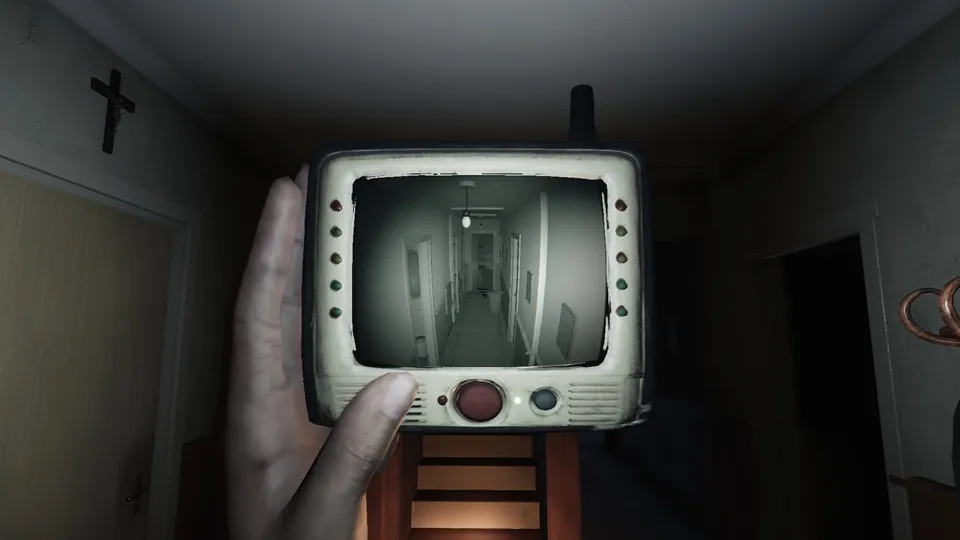
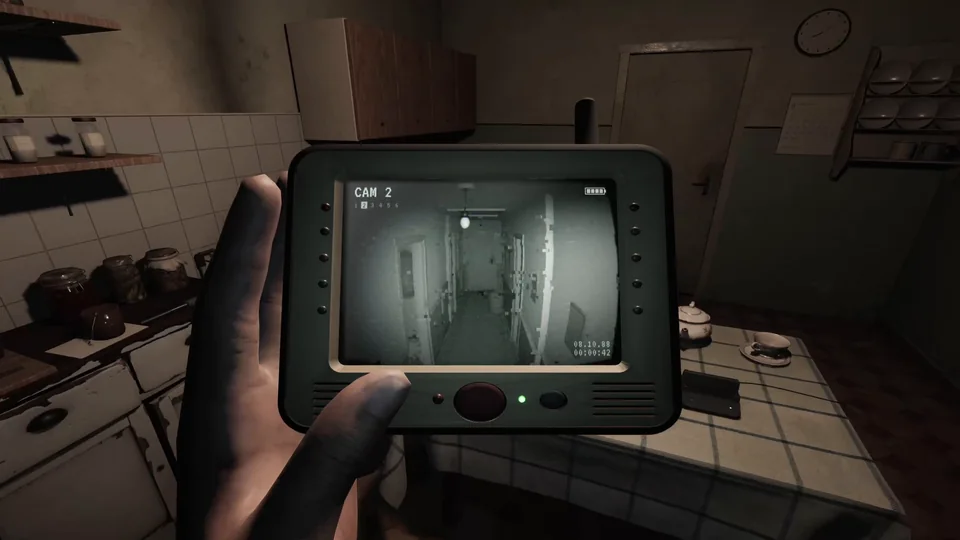
hushabye: film Major Update 7.2.65 (pełna pętla) i nowe zdjęcia z gry
Główny film na stronie to teraz pełna pętla z wersji 7.2.65, starsze zwiastuny zostały jako linki.
Nowe kadry: menu ze Steamem, CAM 1, niania w kuchni, dziecko z latarką, kryjówka.
Poprawione nieaktualne opisy (ekran ładowania, nisze w ścianie).

diff --git a/src/pages/hushabye.html b/src/pages/hushabye.html
@@ -1,7 +1,7 @@
 <article class="ft hu">
 
   <header class="ft-hero">
-    <div class="ft-hero__stage" data-ft-stage data-ft-label="HUSHABYE gameplay trailer, version 7.2.57, with sound">
+    <div class="ft-hero__stage" data-ft-stage data-ft-label="HUSHABYE full game loop, version 7.2.65, with sound">
       <video id="hu-loop-hero" data-poster-loop data-src="assets/hushabye/hushabye-loop-door.mp4" poster="assets/hushabye/hushabye-loop-door.webp" width="1280" height="720" muted loop playsinline preload="none" aria-hidden="true" tabindex="-1"></video>
       <button class="ft-toggle" type="button" data-loop-toggle aria-controls="hu-loop-hero" hidden>Pause</button>
     </div>
@@ -9,31 +9,31 @@
       <h1>HUSHABYE</h1>
       <p class="ft-hero__who">A first-person horror game I am developing in Unity&nbsp;6, played with a microphone: you hush a crying baby with your own voice and lure a blind creature away with recordings of it.</p>
       <p class="ft-hero__acts">
-        <a class="ft-watch" href="https://www.youtube.com/watch?v=4-BAJRZ6SPs" data-ft-play data-ft-yt="4-BAJRZ6SPs" data-t="0">Watch the gameplay trailer</a>
+        <a class="ft-watch" href="https://www.youtube.com/watch?v=R51jy5Clm-k" data-ft-play data-ft-yt="R51jy5Clm-k" data-t="0">Watch the full game loop</a>
       </p>
     </div>
   </header>
 
   <section class="ft-sec ft-band" aria-labelledby="hu-trailers-title">
     <p class="ft-deck">A babysitter&rsquo;s night in a house in late-1980s Europe. The bundle asleep in the crib looks like the baby on CAM&nbsp;1, but the real baby is crying somewhere else in the house. Over five nights, find it, carry it back and swap it into the crib before the crying fades.</p>
-    <p class="ft-facts">Single-player psychological horror, in production. 2026, PC. Unity&nbsp;6 HDRP and C#, sound in Wwise. Both trailers are from version 7.2.57 (October 2026).</p>
+    <p class="ft-facts">Single-player psychological horror, in production. 2026, PC. Unity&nbsp;6 HDRP and C#, sound in Wwise. Latest video from version 7.2.65 (October 2026).</p>
 
-    <h2 class="ft-head" id="hu-trailers-title">Two trailers from version 7.2.57</h2>
+    <h2 class="ft-head" id="hu-trailers-title">Major update: the full game loop, version 7.2.65</h2>
     <div class="ft-row ft-row--left">
       <figure class="ft-media hu-film">
-        <div class="yt-facade" data-yt-facade data-video-id="NFCO0AcAZBI">
-          <button class="yt-facade__launch" type="button" data-yt-launch data-video-title="HUSHABYE preview trailer, alpha 7.2.57" aria-label="Play the 7.2.57 preview trailer with sound, 1 minute 16 seconds">
-            <img src="assets/hushabye/hushabye-preview-1280.webp" srcset="assets/hushabye/hushabye-preview-640.webp 640w, assets/hushabye/hushabye-preview-1280.webp 1280w" sizes="(min-width: 1100px) 56vw, (min-width: 700px) 92vw, 100vw" width="1280" height="720" loading="lazy" decoding="async" alt="" aria-hidden="true">
-            <span class="ft-watch" aria-hidden="true">Play the preview trailer</span>
+        <div class="yt-facade" data-yt-facade data-video-id="R51jy5Clm-k">
+          <button class="yt-facade__launch" type="button" data-yt-launch data-video-title="HUSHABYE major update, full game loop, 7.2.65" aria-label="Play the 7.2.65 full game loop video with sound, 4 minutes 34 seconds">
+            <img src="assets/hushabye/hushabye-fullloop-1280.webp" srcset="assets/hushabye/hushabye-fullloop-640.webp 640w, assets/hushabye/hushabye-fullloop-1280.webp 1280w" sizes="(min-width: 1100px) 56vw, (min-width: 700px) 92vw, 100vw" width="1280" height="720" loading="lazy" decoding="async" alt="" aria-hidden="true">
+            <span class="ft-watch" aria-hidden="true">Play the full game loop</span>
           </button>
-          <noscript><iframe src="https://www.youtube-nocookie.com/embed/NFCO0AcAZBI" title="HUSHABYE preview trailer, alpha 7.2.57" allow="encrypted-media; picture-in-picture" referrerpolicy="strict-origin-when-cross-origin" allowfullscreen></iframe></noscript>
+          <noscript><iframe src="https://www.youtube-nocookie.com/embed/R51jy5Clm-k" title="HUSHABYE major update, full game loop, 7.2.65" allow="encrypted-media; picture-in-picture" referrerpolicy="strict-origin-when-cross-origin" allowfullscreen></iframe></noscript>
         </div>
-        <figcaption class="ft-cap">CAM&nbsp;1 breaks up as something climbs out of the nursery wall.</figcaption>
+        <figcaption class="ft-cap">Hiding in the bathroom with the real baby.</figcaption>
       </figure>
       <div class="ft-body">
-        <p>The gameplay trailer in the header runs 4:15; the preview trailer here is a 1:16 cut.</p>
+        <p>One uncut run, 4:34, from the main menu and the opening tape to finding the real baby and hiding with it: a new menu and settings, a redrawn monitor, hiding places the creature looks into, and Steam playtest builds.</p>
         <p>The baby&rsquo;s crying draws the creature. The player calms the baby, hides it, and sends the creature elsewhere with their own voice played from a camera in another room.</p>
-        <p class="ft-links"><a href="https://www.youtube.com/watch?v=4-BAJRZ6SPs" target="_blank" rel="noopener noreferrer">Gameplay trailer on YouTube <span aria-hidden="true">&nearr;</span></a> <a href="https://www.youtube.com/watch?v=NFCO0AcAZBI" target="_blank" rel="noopener noreferrer">Preview trailer on YouTube <span aria-hidden="true">&nearr;</span></a></p>
+        <p class="ft-links"><a href="https://www.youtube.com/watch?v=R51jy5Clm-k" target="_blank" rel="noopener noreferrer">Full game loop on YouTube <span aria-hidden="true">&nearr;</span></a> <a href="https://www.youtube.com/watch?v=4-BAJRZ6SPs" target="_blank" rel="noopener noreferrer">Gameplay trailer 7.2.57 <span aria-hidden="true">&nearr;</span></a></p>
       </div>
     </div>
   </section>
@@ -42,7 +42,7 @@
     <h2 class="ft-head" id="hu-voice-title">Hushing the baby, luring with your voice</h2>
     <div class="ft-row ft-row--left">
       <figure class="ft-media">
-        <img src="assets/hushabye/hushabye-monitor-1920.webp" srcset="assets/hushabye/hushabye-monitor-960.webp 960w, assets/hushabye/hushabye-monitor-1920.webp 1920w" sizes="(min-width: 1100px) 56vw, (min-width: 700px) 92vw, 100vw" width="1920" height="1080" alt="A hand holds a cream plastic baby monitor in a dark hallway at the foot of the stairs; its screen shows a grainy night-vision view of an upstairs corridor" loading="lazy" decoding="async">
+        <img src="assets/hushabye/hushabye-monitor-1920.webp" srcset="assets/hushabye/hushabye-monitor-960.webp 960w, assets/hushabye/hushabye-monitor-1920.webp 1920w" sizes="(min-width: 1100px) 56vw, (min-width: 700px) 92vw, 100vw" width="1920" height="1080" alt="In a dim 1980s kitchen a hand holds a cream plastic baby monitor; its screen shows CAM&nbsp;2, a grainy night-vision view of a corridor" loading="lazy" decoding="async">
         <figcaption class="ft-cap">The baby monitor shows six cameras around the house.</figcaption>
       </figure>
       <div class="ft-body">
@@ -54,7 +54,7 @@
 
     <div class="hu-pair">
       <figure class="ft-media">
-        <img src="assets/hushabye/hushabye-baby-1280.webp" srcset="assets/hushabye/hushabye-baby-640.webp 640w, assets/hushabye/hushabye-baby-1280.webp 1280w" sizes="(min-width: 700px) 46vw, 100vw" width="1280" height="720" alt="Looking down at a swaddled baby in a knitted cap held in the left arm, while the right hand points a flashlight at a door at the end of a dark hall" loading="lazy" decoding="async">
+        <img src="assets/hushabye/hushabye-baby-1280.webp" srcset="assets/hushabye/hushabye-baby-640.webp 640w, assets/hushabye/hushabye-baby-1280.webp 1280w" sizes="(min-width: 700px) 46vw, 100vw" width="1280" height="720" alt="A swaddled baby in a knitted cap held low in one arm while the other hand points a flashlight down a dark corridor at a double door" loading="lazy" decoding="async">
         <figcaption class="ft-cap">With the baby on one arm, the other hand holds only the flashlight.</figcaption>
       </figure>
       <figure class="ft-media">
@@ -68,23 +68,23 @@
     <h2 class="ft-head" id="hu-ui-title">A baby monitor from 1988</h2>
     <div class="ft-row ft-row--right">
       <figure class="ft-media">
-        <img src="assets/hushabye/hushabye-osd-1440.webp" srcset="assets/hushabye/hushabye-osd-720.webp 720w, assets/hushabye/hushabye-osd-1440.webp 1440w" sizes="(min-width: 1100px) 56vw, (min-width: 700px) 92vw, 100vw" width="1440" height="1080" alt="The monitor&rsquo;s screen on CAM&nbsp;3, a night-vision view of the twins&rsquo; room: camera numbers 1 to 6, a battery, a red REC mark, a small floor plan, tape blocks and a date stamp of 08.10.88" loading="lazy" decoding="async">
-        <figcaption class="ft-cap">Recording into CAM&nbsp;3, in the twins&rsquo; room.</figcaption>
+        <img src="assets/hushabye/hushabye-osd-1440.webp" srcset="assets/hushabye/hushabye-osd-720.webp 720w, assets/hushabye/hushabye-osd-1440.webp 1440w" sizes="(min-width: 1100px) 56vw, (min-width: 700px) 92vw, 100vw" width="1440" height="1080" alt="A full-screen night-vision view of the nursery on CAM&nbsp;1, with the crib, a chair and a mobile, marked REC and dated 08.10.88" loading="lazy" decoding="async">
+        <figcaption class="ft-cap">CAM&nbsp;1, the nursery, as each night begins.</figcaption>
       </figure>
       <div class="ft-body">
         <p>The monitor&rsquo;s screen is drawn like the on-screen display of a VHS camcorder: a large CAM number, a strip of the six cameras, an LCD battery, REC with tape blocks, and a date stamp from October 1988.</p>
         <p>There are no counters on screen. The baby&rsquo;s state is heard rather than shown, and an action prompt is one key and one word.</p>
-        <p>The menu, the night card and the loading screen use the same tape picture. The loading screen is a four-channel camera multiplexer.</p>
+        <p>The menu plays the same tape picture of the nursery behind a few plain words.</p>
       </div>
     </div>
 
     <div class="hu-pair">
       <figure class="ft-media">
-        <img src="assets/hushabye/hushabye-loading-1280.webp" srcset="assets/hushabye/hushabye-loading-640.webp 640w, assets/hushabye/hushabye-loading-1280.webp 1280w" sizes="(min-width: 700px) 46vw, 100vw" width="1280" height="720" alt="A four-way split of night-vision camera feeds labelled CH1 to CH4, three showing cribs and a corridor and the fourth reading NO SIGNAL, with a taped label reading NIGHT 1 and a red digital counter" loading="lazy" decoding="async">
-        <figcaption class="ft-cap">The loading screen.</figcaption>
+        <img src="assets/hushabye/hushabye-hide-1280.webp" srcset="assets/hushabye/hushabye-hide-640.webp 640w, assets/hushabye/hushabye-hide-1280.webp 1280w" sizes="(min-width: 700px) 46vw, 100vw" width="1280" height="720" alt="From a dark hiding place, the hand raises the monitor: on CAM&nbsp;1 a thin shape bends over the crib in the nursery" loading="lazy" decoding="async">
+        <figcaption class="ft-cap">Hiding, and watching the crib on CAM&nbsp;1.</figcaption>
       </figure>
       <figure class="ft-media">
-        <img src="assets/hushabye/hushabye-menu-1280.webp" srcset="assets/hushabye/hushabye-menu-640.webp 640w, assets/hushabye/hushabye-menu-1280.webp 1280w" sizes="(min-width: 700px) 46vw, 100vw" width="1280" height="720" alt="The main menu as a played-back tape: PLAY and a running clock at the top, the title HUSHABYE and the options Continue, New game, Nights, Settings, Credits and Quit over a faint night-vision picture" loading="lazy" decoding="async">
+        <img src="assets/hushabye/hushabye-menu-1280.webp" srcset="assets/hushabye/hushabye-menu-640.webp 640w, assets/hushabye/hushabye-menu-1280.webp 1280w" sizes="(min-width: 700px) 46vw, 100vw" width="1280" height="720" alt="The main menu: the title HUSHABYE and the options Continue, New game, Nights, Tape, Settings, Credits and Quit over a dim night-vision picture of the nursery, with a Steam playtester badge in the corner" loading="lazy" decoding="async">
         <figcaption class="ft-cap">The main menu.</figcaption>
       </figure>
     </div>
@@ -100,7 +100,7 @@
       <div class="ft-body">
         <p>The creature is a blind woman&rsquo;s head on a procedural neck many metres long, with a headless body in a floral nightgown limping behind it. It hunts by sound.</p>
         <p>It lives behind a patch of wallpaper next to the crib. The wall bulges and tears in strips and the head comes out first; on the way back the body goes in first and the head last.</p>
-        <p>From the second night the baby is locked behind a machine in one of three wall niches. Later nights add a red ribbon for the crib and poppy seeds the creature stops to count, both folk protections against changelings.</p>
+        <p>It searches rooms and looks into hiding places; if it finds the player, the night ends. Later nights add a red ribbon for the crib and poppy seeds the creature stops to count, both folk protections against changelings.</p>
       </div>
     </div>
   </section>
@@ -121,6 +121,7 @@
 
   <nav class="cine-close" aria-label="Project links and navigation">
     <span>
+      <a href="https://www.youtube.com/watch?v=R51jy5Clm-k" target="_blank" rel="noopener noreferrer">Major update 7.2.65, full game loop <span aria-hidden="true">&nearr;</span></a>
       <a href="https://www.youtube.com/watch?v=4-BAJRZ6SPs" target="_blank" rel="noopener noreferrer">Gameplay trailer 7.2.57 <span aria-hidden="true">&nearr;</span></a>
       <a href="https://www.youtube.com/watch?v=NFCO0AcAZBI" target="_blank" rel="noopener noreferrer">Preview trailer 7.2.57 <span aria-hidden="true">&nearr;</span></a>
       <a href="https://www.youtube.com/watch?v=KTZXU7_unJ8" target="_blank" rel="noopener noreferrer">Earlier: update 7.2.38, sung to the crib <span aria-hidden="true">&nearr;</span></a>
